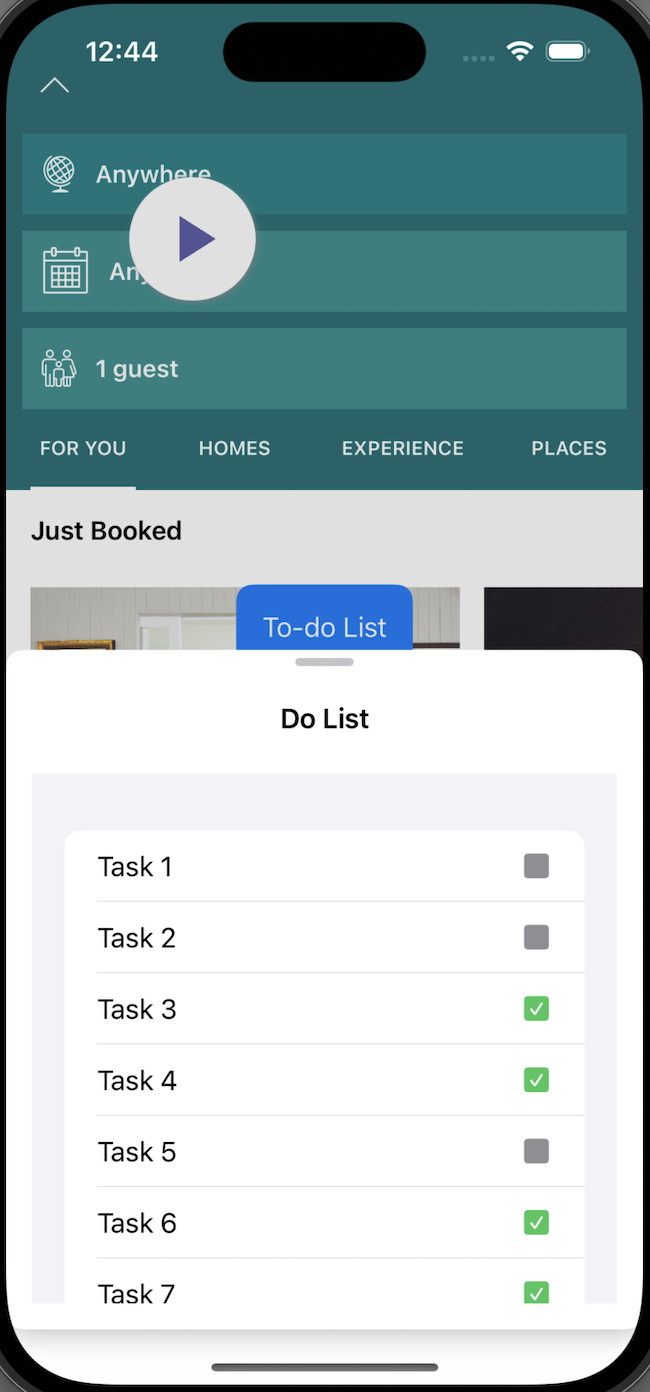
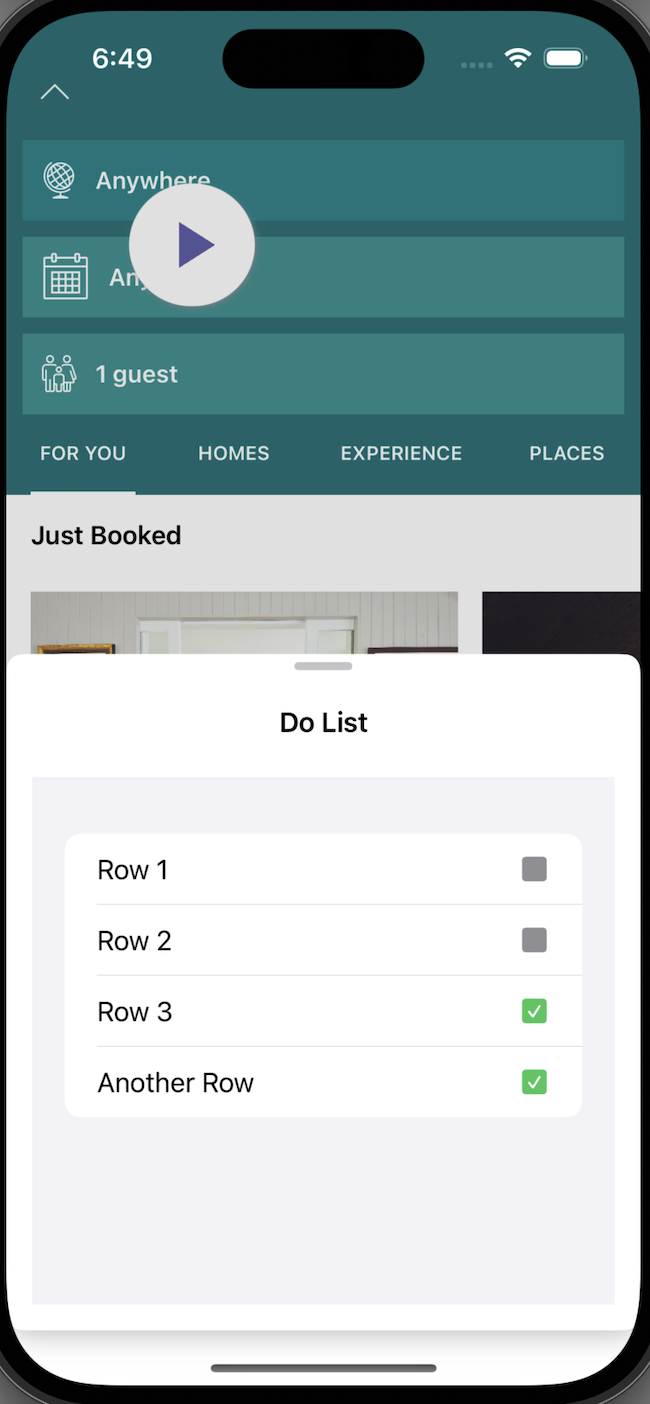
now title comes from guide.title

diff --git a/Tests/GuideBlocksTests/ToDoTaskModelTests.swift b/Tests/GuideBlocksTests/ToDoTaskModelTests.swift
@@ -1,0 +1,39 @@
+//
+//  ToDoTaskModelTests.swift
+//  GuideBlocksTests
+//
+//  Created by Amr Aboelela on 2024/2/9.
+//  Copyright © 2024 Contextual.
+//
+
+import XCTest
+
+@testable import iOS_GuideBlocks
+
+class ToDoTaskModelTests: XCTestCase {
+    
+    func testEquality() {
+        let task1 = ToDoTaskModel(id: "1", name: "Task 1", checked: false, enabled: true, action: nil)
+        let task2 = ToDoTaskModel(id: "2", name: "Task 2", checked: true, enabled: false, action: nil)
+        let task3 = ToDoTaskModel(id: "3", name: "Task 3", checked: false, enabled: true, action: nil)
+        let task4 = ToDoTaskModel(id: "3", name: "Task 4", checked: false, enabled: true, action: nil)
+        
+        XCTAssertEqual(task1, task1) // A task is equal to itself
+        XCTAssertNotEqual(task1, task2) // Different tasks should not be equal
+        XCTAssertNotEqual(task1, task3) // Different tasks should not be equal
+        
+        XCTAssertEqual(task3, task4) // equal as they have same id
+    }
+    
+    func testHashing() {
+        let task1 = ToDoTaskModel(id: "1", name: "Task 1", checked: false, enabled: true, action: nil)
+        let task2 = ToDoTaskModel(id: "2", name: "Task 2", checked: true, enabled: false, action: nil)
+        let task3 = ToDoTaskModel(id: "3", name: "Task 3", checked: false, enabled: true, action: nil)
+        let task4 = ToDoTaskModel(id: "3", name: "Task 4", checked: false, enabled: true, action: nil)
+        
+        XCTAssertEqual(task1.hashValue, task1.hashValue) // Hash value should be consistent
+        XCTAssertNotEqual(task1.hashValue, task2.hashValue) // Different tasks should have different hash values
+        XCTAssertNotEqual(task1.hashValue, task3.hashValue) // Different tasks should have different hash values
+        XCTAssertEqual(task3.hashValue, task4.hashValue) // equal as they have same id
+    }
+}

diff --git a/Tests/GuideBlocksTests/MyChecklistViewModelTests copy.swift b/Tests/GuideBlocksTests/MyChecklistViewModelTests copy.swift
@@ -1,0 +1,57 @@
+//
+//  MyChecklistViewModelTests.swift
+//  GuideBlocksTests
+//
+//  Created by Amr Aboelela on 2024/2/9.
+//  Copyright © 2024 Contextual.
+//
+
+import XCTest
+
+@testable import iOS_GuideBlocks
+
+class MyChecklistViewModelTests: XCTestCase {
+    var viewModel: MyChecklistViewModel!
+
+    override func setUp() {
+        super.setUp()
+        viewModel = MyChecklistViewModel()
+    }
+
+    override func tearDown() {
+        viewModel = nil
+        super.tearDown()
+    }
+
+    func testLoadWithSampleTasks() {
+        // Check if taskModels are loaded with sample tasks
+        XCTAssertEqual(viewModel.taskModels.count, 12)
+        
+        // Verify the properties of each taskModel
+        for (index, taskModel) in viewModel.taskModels.enumerated() {
+            XCTAssertEqual(taskModel.name, "Task \(index + 1)")
+            XCTAssertEqual(taskModel.checked, (index + 1).isPrime())
+            XCTAssertTrue(taskModel.enabled)
+            XCTAssertNotNil(taskModel.action)
+        }
+    }
+
+    func testLoadWithCustomTasks() {
+        // Define custom tasks
+        let customTasks = ["Task A", "Task B", "Task C"]
+        
+        // Load tasks with custom tasks
+        viewModel.load(tasks: customTasks)
+        
+        // Check if taskModels are loaded with custom tasks
+        XCTAssertEqual(viewModel.taskModels.count, customTasks.count)
+        
+        // Verify the properties of each taskModel
+        for (index, taskModel) in viewModel.taskModels.enumerated() {
+            XCTAssertEqual(taskModel.id, "task\(index)")
+            XCTAssertEqual(taskModel.name, customTasks[index])
+            XCTAssertTrue(taskModel.enabled)
+            XCTAssertNotNil(taskModel.action)
+        }
+    }
+}

diff --git a/Sources/iOS_GuideBlocks/MyChecklist/MyChecklistGuide.swift b/Sources/iOS_GuideBlocks/MyChecklist/MyChecklistGuide.swift
@@ -37,9 +37,8 @@ public class MyChecklistGuide: CTXBaseGuideController {
         let myChecklistViewModel = MyChecklistViewModel()
         if let tasks = guide.extraJson?["tasks"] as? [String] {
             myChecklistViewModel.load(tasks: tasks)
-        } else {
-            myChecklistViewModel.updateWithSampleTasks()
         }
+        myChecklistViewModel.title = guide.title.text
         let view = MyChecklistView(myChecklistViewModel: myChecklistViewModel)
         
         self.hostingController = UIHostingController(rootView: view)

diff --git a/Sources/iOS_GuideBlocks/MyChecklist/Views/MyChecklistView.swift b/Sources/iOS_GuideBlocks/MyChecklist/Views/MyChecklistView.swift
@@ -18,7 +18,7 @@ struct MyChecklistView: View {
                 isPopupVisible.toggle()
                 print("Do list button tapped")
             }) {
-                Text("To-do List")
+                Text(myChecklistViewModel.title)
                     .foregroundColor(.white) // Set text color to white
                     .padding() // Add padding to the text
                     .background(Color.blue) // Set background color to sky blue

diff --git a/Sources/iOS_GuideBlocks/MyChecklist/MyChecklistViewModel.swift b/Sources/iOS_GuideBlocks/MyChecklist/MyChecklistViewModel.swift
@@ -9,13 +9,14 @@
 import Foundation
 
 class MyChecklistViewModel : ObservableObject {
-
+    @Published var title = "Do List"
     @Published var taskModels = [ToDoTaskModel]()
     
     init() {
+        loadWithSampleTasks()
     }
     
-    func updateWithSampleTasks() {
+    func loadWithSampleTasks() {
         var result = [ToDoTaskModel]()
         for i in 1...12 {
             let taskModel = ToDoTaskModel(

diff --git a/Sources/iOS_GuideBlocks/MyChecklist/Views/DoListView.swift b/Sources/iOS_GuideBlocks/MyChecklist/Views/DoListView.swift
@@ -14,9 +14,6 @@ struct DoListView: View {
     
     var body: some View {
         VStack {
-            Text("Do List")
-                .font(.headline)
-                .padding()
             List(myChecklistViewModel.taskModels, id: \.self.id) { toDoTask in
                 Button(action: {
                     if toDoTask.enabled {

diff --git a/Sources/iOS_GuideBlocks/MyChecklist/Models/ToDoTaskModel.swift b/Sources/iOS_GuideBlocks/MyChecklist/Models/ToDoTaskModel.swift
@@ -18,7 +18,7 @@ struct ToDoTaskModel: Hashable {
     // MARK: - Delegates
     
     static func == (lhs: ToDoTaskModel, rhs: ToDoTaskModel) -> Bool {
-        lhs.name == rhs.name
+        lhs.id == rhs.id
     }
     
     public func hash(into hasher: inout Hasher) {

diff --git a/Sources/iOS_GuideBlocks/MyChecklist/README.md b/Sources/iOS_GuideBlocks/MyChecklist/README.md
@@ -17,7 +17,7 @@ Everyone loves checklists. This is a simple example to get you started with Cont
 `
 {
   "guideBlockKey": "MyChecklist",
-   "tasks": ["Row1", "Row2", "Row 3", "Another Row"]
+   "tasks": ["Row 1", "Row 2", "Row 3", "Another Row"]
 }
 `
  * Match the name in the JSON to the name of your wrapper in the code
